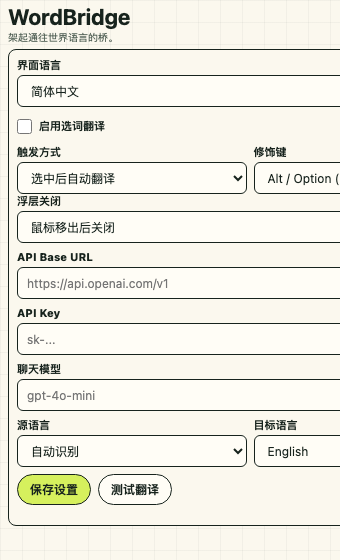
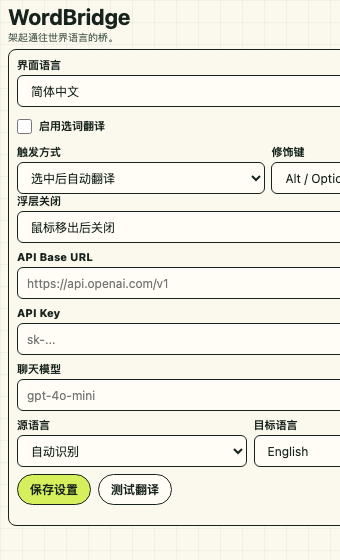
Keep trigger settings in one row

Changed region(s): [[0.6765, 0.2429, 1.0, 0.3643]]

diff --git a/options.css b/options.css
@@ -157,6 +157,11 @@ select:disabled {
   gap: 7px;
 }
 
+.trigger-grid {
+  grid-template-columns: minmax(0, 1.08fr) minmax(0, 0.92fr);
+  gap: 6px;
+}
+
 .switch-row {
   display: flex;
   align-items: center;
@@ -240,6 +245,9 @@ button.secondary {
     grid-template-columns: 1fr;
   }
 
+  .trigger-grid {
+    grid-template-columns: minmax(0, 1.08fr) minmax(0, 0.92fr);
+  }
 }
 
 html[dir="rtl"] body {
